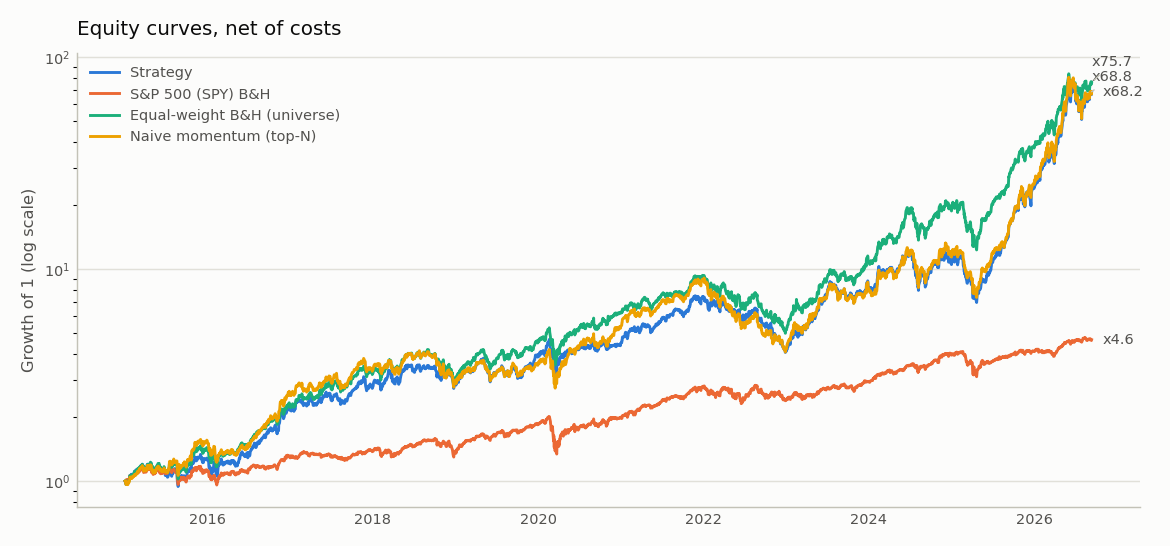
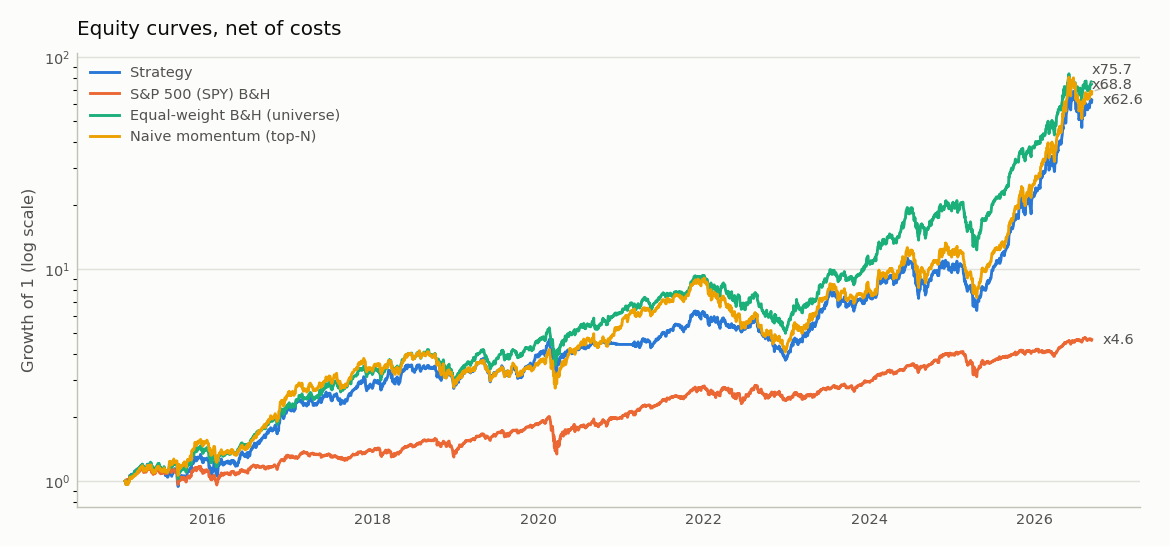
Step 5b: per-factor Schmitt trigger (engage / release thresholds)
macro_gate.{vix,yield,oil}_release_threshold (None = engage, neutral and golden). A sub-gate
engages above the engage threshold, releases only at or below the release threshold, and holds
its state in between; the state runs on the daily lagged macro features (pure function of
history; test), NaN fails open with a log line. Chosen: VIX 25/20, yield +40/+32 bp,
oil +20/+16% (release = 0.8 x engage).

Control, + Schmitt (x/yr):
  membership 3.61 -> 3.42 | drift 0.60 -> 0.59 | gate 0.00 | reweight 0.19 -> 0.20
  total 4.41 -> 4.21; risk-off on 165/611 signal dates (was 118), 211 entries blocked
  gate: 72 transitions (6.0/yr, unchanged), reversals within 1 signal date 24 -> 21, within 2
  31 -> 29
  CAGR 42.1% -> 41.0%, Sharpe 1.16 -> 1.15, max DD -46.0% -> -43.4%, costs 0.62% -> 0.61%

diff --git a/tests/test_schmitt.py b/tests/test_schmitt.py
@@ -1,0 +1,95 @@
+"""Per-factor Schmitt trigger (brief v2, decision 4b)."""
+
+from __future__ import annotations
+
+import numpy as np
+import pandas as pd
+import pytest
+
+from tests.golden import assert_golden
+from tests.synthetic import make_config
+from thematic_alpha.strategy.macro_gate import engaged_states, gate_factors, schmitt
+
+
+def _s(values):
+    return pd.Series(values, index=pd.bdate_range("2024-01-01", periods=len(values)), dtype=float)
+
+
+def test_engages_above_engage_and_holds_inside_the_band_both_ways():
+    # 25 / 20 band. 22 from below: stays released; 22 from above: stays engaged.
+    s = _s([18, 22, 24, 25, 26, 24, 22, 20.5, 20, 22, 19, 30, 25, 20])
+    got = schmitt(s, 25.0, 20.0).tolist()
+    assert got == [
+        False,
+        False,
+        False,
+        False,  # 25 is not above 25
+        True,  # 26 engages
+        True,  # 24 inside the band: hold
+        True,  # 22 inside the band: hold
+        True,  # 20.5 inside the band: hold
+        False,  # 20 is at the release level: release
+        False,  # 22 inside the band from below: hold (released)
+        False,
+        True,
+        True,  # 25 inside the band from above: hold
+        False,
+    ]
+
+
+def test_release_equal_to_engage_is_the_plain_comparator():
+    rng = np.random.default_rng(0)
+    s = _s(rng.normal(25, 5, 500))
+    assert schmitt(s, 25.0, 25.0).tolist() == (s > 25.0).tolist()
+
+
+def test_nan_fails_open_and_restarts_released(caplog):
+    s = _s([30, np.nan, 24, 26])
+    assert schmitt(s, 25.0, 20.0).tolist() == [True, False, False, True]  # 24 after NaN: released
+    cfg = make_config().macro_gate
+    idx = s.index
+    feats = pd.DataFrame(
+        {"vix_level": s, "dgs10_chg_21d": 0.0, "wti_chg_21d": [0.3, 0.18, np.nan, 0.18]}, index=idx
+    )
+    with caplog.at_level("WARNING"):
+        e = engaged_states(feats, cfg)
+    assert "failing open" in caplog.text
+    assert e["oil_engaged"].tolist() == [True, True, False, False]  # band 0.20/0.16 holds at 0.18
+
+
+def test_engaged_states_use_the_configured_release_thresholds():
+    cfg = make_config().macro_gate  # chosen: 25/20, 0.40/0.32, 0.20/0.16
+    assert (cfg.release_threshold("vix"), cfg.release_threshold("yield")) == (20.0, 0.32)
+    idx = pd.bdate_range("2024-01-01", periods=3)
+    feats = pd.DataFrame(
+        {"vix_level": [26.0, 21.0, 21.0], "dgs10_chg_21d": [0.5, 0.35, 0.3], "wti_chg_21d": 0.0},
+        index=idx,
+    )
+    f = gate_factors(feats, cfg)
+    assert f["vix_engaged"].tolist() == [True, True, True]
+    assert f["yield_engaged"].tolist() == [True, True, False]
+    assert f["exposure"].tolist() == pytest.approx([0.35, 0.35, 0.5])
+
+
+def test_release_above_engage_is_rejected():
+    with pytest.raises(ValueError):
+        make_config(macro_gate={"vix_release_threshold": 26.0})
+
+
+def test_state_at_t_is_unchanged_by_future_data():
+    rng = np.random.default_rng(3)
+    s = _s(rng.normal(23, 4, 400))
+    full = schmitt(s, 25.0, 20.0)
+    for cut in (100, 250, 399):
+        part = schmitt(s.iloc[: cut + 1], 25.0, 20.0)
+        pd.testing.assert_series_equal(part, full.iloc[: cut + 1])
+
+
+def test_release_equal_engage_is_golden():
+    assert_golden(
+        macro_gate={
+            "vix_release_threshold": 25.0,
+            "yield_release_threshold": 0.40,
+            "oil_release_threshold": 0.20,
+        }
+    )

diff --git a/src/thematic_alpha/strategy/macro_gate.py b/src/thematic_alpha/strategy/macro_gate.py
@@ -11,8 +11,12 @@ Three sub-gates (VIX level, 21-day 10y-yield change, 21-day WTI change) each pro
   not scaled, non-exempt names simply cannot increase (see ``compose``). The scale factors and
   ``min_exposure`` are unused in this mode.
 
-A NaN input fails open (released) for that sub-gate, with a log line. Everything here is a pure
-function of history on the daily feature index; ``applied_gate`` samples it on signal dates.
+Each sub-gate is a Schmitt trigger: it engages when its signal is *above* the engage threshold
+and releases only when the signal is *at or below* the release threshold; in between it keeps
+its previous state. With release == engage (the neutral default) there is no dead band and the
+trigger is exactly the Layer 1 comparator ``signal > threshold``. A NaN input fails open
+(released) for that sub-gate on that date, with a log line. Everything here is a pure function
+of history on the daily feature index; ``applied_gate`` samples it on signal dates.
 """
 
 from __future__ import annotations
@@ -20,6 +24,7 @@ from __future__ import annotations
 import logging
 from dataclasses import dataclass
 
+import numpy as np
 import pandas as pd
 
 from thematic_alpha.config import MacroGateConfig
@@ -29,11 +34,28 @@ logger = logging.getLogger("thematic_alpha.strategy.macro_gate")
 SUBGATES = ("vix", "yield", "oil")
 
 
-def _engaged(signal: pd.Series, threshold: float, name: str) -> pd.Series:
+def schmitt(signal: pd.Series, engage: float, release: float) -> pd.Series:
+    """Stateful comparator: True above ``engage``, False at or below ``release``, previous state
+    in between; NaN -> False (fail open). Runs forward in time only."""
+    x = signal.to_numpy(dtype=float)
+    out = np.zeros(len(x), dtype=bool)
+    state = False
+    for i, v in enumerate(x):
+        if np.isnan(v):
+            state = False
+        elif v > engage:
+            state = True
+        elif v <= release:
+            state = False
+        out[i] = state
+    return pd.Series(out, index=signal.index)
+
+
+def _engaged(signal: pd.Series, engage: float, release: float, name: str) -> pd.Series:
     n_nan = int(signal.isna().sum())
     if n_nan:
         logger.warning("%s gate: %d dates have no input; failing open (released).", name, n_nan)
-    return (signal > threshold).fillna(False).astype(bool).rename(f"{name}_engaged")
+    return schmitt(signal, engage, release).rename(f"{name}_engaged")
 
 
 def _inputs(macro_feats: pd.DataFrame, cfg: MacroGateConfig) -> dict[str, pd.Series]:
@@ -56,7 +78,12 @@ def engaged_states(macro_feats: pd.DataFrame, cfg: MacroGateConfig) -> pd.DataFr
         "yield": cfg.yield_change_threshold,
         "oil": cfg.oil_change_threshold,
     }
-    return pd.DataFrame({f"{k}_engaged": _engaged(x[k], thresholds[k], k) for k in SUBGATES})
+    return pd.DataFrame(
+        {
+            f"{k}_engaged": _engaged(x[k], thresholds[k], cfg.release_threshold(k), k)
+            for k in SUBGATES
+        }
+    )
 
 
 def gate_factors(macro_feats: pd.DataFrame, cfg: MacroGateConfig) -> pd.DataFrame:

diff --git a/src/thematic_alpha/config.py b/src/thematic_alpha/config.py
@@ -71,6 +71,39 @@ class MacroGateConfig(_Base):
     action: Literal["scale", "block_increases"] = "scale"
     # Universe ``segment`` values that trade freely while risk-off (e.g. ["defensive"]).
     block_exempt_segments: list[str] = Field(default_factory=list)
+    # (b) Schmitt trigger per sub-gate: engage when the signal is above the engage threshold,
+    # release only when it is at or below the release threshold, hold the state in between.
+    # None -> release = engage, which is exactly the Layer 1 comparator.
+    vix_release_threshold: float | None = None
+    yield_release_threshold: float | None = None
+    oil_release_threshold: float | None = None
+
+    @model_validator(mode="after")
+    def _release_not_above_engage(self) -> MacroGateConfig:
+        for name, engage, release in (
+            ("vix", self.vix_threshold, self.vix_release_threshold),
+            ("yield", self.yield_change_threshold, self.yield_release_threshold),
+            ("oil", self.oil_change_threshold, self.oil_release_threshold),
+        ):
+            if release is not None and release > engage:
+                raise ValueError(
+                    f"{name}_release_threshold={release} must not exceed the engage "
+                    f"threshold {engage}"
+                )
+        return self
+
+    def release_threshold(self, name: str) -> float:
+        engage = {
+            "vix": self.vix_threshold,
+            "yield": self.yield_change_threshold,
+            "oil": self.oil_change_threshold,
+        }[name]
+        release = {
+            "vix": self.vix_release_threshold,
+            "yield": self.yield_release_threshold,
+            "oil": self.oil_release_threshold,
+        }[name]
+        return engage if release is None else release
 
 
 class RankerConfig(_Base):

diff --git a/tests/synthetic.py b/tests/synthetic.py
@@ -293,6 +293,9 @@ LAYER1_NEUTRAL: dict[str, dict] = {
         "combination": "multiplicative",
         "action": "scale",
         "block_exempt_segments": [],
+        "vix_release_threshold": None,
+        "yield_release_threshold": None,
+        "oil_release_threshold": None,
     },
     "event_mask": {"enabled": True, "block_new_entries_only": True},
     "turnover": {"position_band": 0.0},
@@ -302,7 +305,13 @@ LAYER1_NEUTRAL: dict[str, dict] = {
 CHOSEN: dict[str, dict] = {
     "ranker": {"weighting": "equal", "exit_rank": 8},
     "turnover": {"position_band": 0.02},
-    "macro_gate": {"action": "block_increases", "block_exempt_segments": ["defensive"]},
+    "macro_gate": {
+        "action": "block_increases",
+        "block_exempt_segments": ["defensive"],
+        "vix_release_threshold": 20.0,
+        "yield_release_threshold": 0.32,
+        "oil_release_threshold": 0.16,
+    },
 }
 
 

diff --git a/src/thematic_alpha/reporting/report.py b/src/thematic_alpha/reporting/report.py
@@ -49,9 +49,17 @@ def git_hash(root: Path) -> str:
 
 def _gate_config_text(config: Config) -> str:
     g = config.macro_gate
+
+    def _band(engage: float, name: str, fmt) -> str:
+        release = g.release_threshold(name)
+        return fmt(engage) if release == engage else f"{fmt(engage)} (release {fmt(release)})"
+
     triggers = (
-        f"VIX>{g.vix_threshold:g}; 10y +{100 * g.yield_change_threshold:.0f}bp/"
-        f"{g.yield_change_window}d; WTI +{100 * g.oil_change_threshold:.0f}%/{g.oil_change_window}d"
+        f"VIX>{_band(g.vix_threshold, 'vix', lambda v: f'{v:g}')}; "
+        f"10y +{_band(g.yield_change_threshold, 'yield', lambda v: f'{100 * v:.0f}bp')}/"
+        f"{g.yield_change_window}d; "
+        f"WTI +{_band(g.oil_change_threshold, 'oil', lambda v: f'{100 * v:.0f}%')}/"
+        f"{g.oil_change_window}d"
     )
     if not g.enabled:
         return f"disabled ({triggers})"

diff --git a/outputs/report.md b/outputs/report.md
@@ -14,7 +14,7 @@
 | Execution | t + 1 session at the open |
 | Costs | model=bps, 5 bps/side + 3 bps slippage, flat 1 EUR |
 | Ranker | momentum_zscore, top 5 (exit rank 8), equal |
-| Macro gate | block increases while any sub-gate is engaged (VIX>25; 10y +40bp/21d; WTI +20%/21d); exempt segments: defensive; scale factors and floor unused |
+| Macro gate | block increases while any sub-gate is engaged (VIX>25 (release 20); 10y +40bp (release 32bp)/21d; WTI +20% (release 16%)/21d); exempt segments: defensive; scale factors and floor unused |
 | Event mask | block new exposure 3 sessions before earnings (on) |
 | Sizing | max weight 0.35, cash floor 0; house-money rule: Layer 2 (not applied) |
 | Turnover control | position no-trade band 2 pp (on; strategy only) |
@@ -27,7 +27,7 @@
 
 ## Strategy activity
 
-611 signal dates. Macro gate in **block-increases** mode: risk-off on 118 signal dates, 88 increases or entries blocked (that weight stayed in cash; exempt names: none). The scale factors and `min_exposure` are unused in this mode. Event mask: **8 entries blocked pre-earnings** (323 ticker-dates masked; 0 tickers without earnings dates failed open).
+611 signal dates. Macro gate in **block-increases** mode: risk-off on 165 signal dates, 211 increases or entries blocked (that weight stayed in cash; exempt names: none). The scale factors and `min_exposure` are unused in this mode. Event mask: **8 entries blocked pre-earnings** (323 ticker-dates masked; 0 tickers without earnings dates failed open).
 
 Average cross-sectional rank of the held names: **3.81** (exit rank 8, top 5; plain top-5 gives 3.0 by construction). A higher value is the signal-quality cost of the rank buffer: it holds names the ranker would otherwise have replaced.
 
@@ -37,35 +37,35 @@ Average cross-sectional rank of the held names: **3.81** (exit rank 8, top 5; pl
 
 | Metric | Strategy | S&P 500 (SPY) B&H | Equal-weight B&H (universe) | Naive momentum (top-N) |
 |---|---:|---:|---:|---:|
-| Total return | 6724.3% | 364.5% | 7474.4% | 6780.2% |
-| CAGR | 42.1% | 13.6% | 43.3% | 42.2% |
-| Annualized volatility | 33.3% | 18.4% | 31.2% | 34.0% |
-| Sharpe (excess over DTB3) | 1.16 | 0.67 | 1.24 | 1.14 |
-| Sortino (MAR 0) | 1.71 | 0.95 | 1.82 | 1.67 |
-| Max drawdown | -46.0% | -33.5% | -46.7% | -55.2% |
-| Max DD peak | 2021-11-25 | 2020-02-19 | 2021-12-27 | 2022-01-03 |
-| Max DD trough | 2022-12-28 | 2020-03-23 | 2022-12-28 | 2022-12-28 |
-| Max DD recovery | 2023-06-22 | 2021-01-07 | 2023-07-05 | 2024-02-09 |
-| Max DD duration (days) | 574 | 323 | 555 | 767 |
-| Calmar | 0.92 | 0.41 | 0.93 | 0.76 |
-| Alpha vs S&P 500 (ann.) | 22.9% | -0.1% | 22.6% | 23.0% |
-| Beta vs S&P 500 | 1.26 | 1.00 | 1.30 | 1.28 |
+| Total return | 6156.9% | 364.5% | 7474.4% | 6780.2% |
+| CAGR | 41.0% | 13.6% | 43.3% | 42.2% |
+| Annualized volatility | 32.8% | 18.4% | 31.2% | 34.0% |
+| Sharpe (excess over DTB3) | 1.15 | 0.67 | 1.24 | 1.14 |
+| Sortino (MAR 0) | 1.70 | 0.95 | 1.82 | 1.67 |
+| Max drawdown | -43.4% | -33.5% | -46.7% | -55.2% |
+| Max DD peak | 2024-06-18 | 2020-02-19 | 2021-12-27 | 2022-01-03 |
+| Max DD trough | 2025-04-21 | 2020-03-23 | 2022-12-28 | 2022-12-28 |
+| Max DD recovery | 2025-08-07 | 2021-01-07 | 2023-07-05 | 2024-02-09 |
+| Max DD duration (days) | 415 | 323 | 555 | 767 |
+| Calmar | 0.95 | 0.41 | 0.93 | 0.76 |
+| Alpha vs S&P 500 (ann.) | 22.6% | -0.1% | 22.6% | 23.0% |
+| Beta vs S&P 500 | 1.22 | 1.00 | 1.30 | 1.28 |
 | Historical VaR 95% (daily) | 3.2% | 1.7% | 3.2% | 3.3% |
-| Historical VaR 99% (daily) | 5.6% | 3.3% | 5.3% | 5.8% |
-| Parametric VaR 95% (daily) | 3.3% | 1.8% | 3.1% | 3.4% |
-| Parametric VaR 99% (daily) | 4.7% | 2.6% | 4.4% | 4.8% |
-| CVaR / ES 95% (daily) | 4.9% | 2.8% | 4.6% | 5.0% |
-| Excess kurtosis (daily) | 4.00 | 11.29 | 3.70 | 3.42 |
-| Hit rate (weekly periods) | 59.8% | 60.3% | 61.7% | 60.4% |
+| Historical VaR 99% (daily) | 5.5% | 3.3% | 5.3% | 5.8% |
+| Parametric VaR 95% (daily) | 3.2% | 1.8% | 3.1% | 3.4% |
+| Parametric VaR 99% (daily) | 4.6% | 2.6% | 4.4% | 4.8% |
+| CVaR / ES 95% (daily) | 4.8% | 2.8% | 4.6% | 5.0% |
+| Excess kurtosis (daily) | 4.36 | 11.29 | 3.70 | 3.42 |
+| Hit rate (weekly periods) | 58.5% | 60.3% | 61.7% | 60.4% |
 | Average win (weekly period) | 3.7% | 1.7% | 3.5% | 3.8% |
 | Average loss (weekly period) | -3.4% | -1.8% | -3.5% | -3.7% |
-| Annualized turnover | 4.41 | 0.08 | 0.62 | 15.39 |
-| Total costs paid | 4,257.45 | 7.99 | 1,229.48 | 13,034.81 |
-| Costs as % of final equity | 0.62% | 0.02% | 0.16% | 1.89% |
+| Annualized turnover | 4.21 | 0.08 | 0.62 | 15.39 |
+| Total costs paid | 3,842.77 | 7.99 | 1,229.48 | 13,034.81 |
+| Costs as % of final equity | 0.61% | 0.02% | 0.16% | 1.89% |
 
-Against equal-weight buy-and-hold of the same basket the strategy's CAGR is lower (42.1% vs 43.3%), its Sharpe is lower (1.16 vs 1.24), and its maximum drawdown is shallower (-46.0% vs -46.7%). The rules gave up total return relative to holding the basket in exchange for a better risk-adjusted profile.
+Against equal-weight buy-and-hold of the same basket the strategy's CAGR is lower (41.0% vs 43.3%), its Sharpe is lower (1.15 vs 1.24), and its maximum drawdown is shallower (-43.4% vs -46.7%). The rules gave up total return relative to holding the basket in exchange for a better risk-adjusted profile.
 
-VaR note: parametric (normal) 99% VaR is 4.7% against a historical 5.6%; daily excess kurtosis is 4.00. The normal assumption understates the tail.
+VaR note: parametric (normal) 99% VaR is 4.6% against a historical 5.5%; daily excess kurtosis is 4.36. The normal assumption understates the tail.
 
 ## Turnover attribution
 
@@ -73,12 +73,12 @@ Annualized turnover split by cause (see `backtest/attribution.py`): **membership
 
 | Run | membership | drift | gate | reweight | total |
 |---|---:|---:|---:|---:|---:|
-| Strategy | 3.61 | 0.60 | 0.00 | 0.19 | 4.41 |
+| Strategy | 3.42 | 0.59 | 0.00 | 0.20 | 4.21 |
 | S&P 500 (SPY) B&H | 0.08 | 0.00 | 0.00 | 0.00 | 0.08 |
 | Equal-weight B&H (universe) | 0.27 | 0.21 | 0.00 | 0.14 | 0.62 |
 | Naive momentum (top-N) | 13.96 | 1.43 | 0.00 | 0.00 | 15.39 |
 
-Macro gate: 72 state transitions over 611 signal dates (6.0 per year); 24 of them reverse within 1 signal date and 31 within 2. The gate accounts for 0.0% of the strategy's turnover. In block mode a blocked *entry* that executes after the release is membership turnover, not gate turnover, so this share only counts blocked increases of held names; with equal weights and a full book those are rare, and the gate's effect shows up as deferred membership and higher cash instead.
+Macro gate: 72 state transitions over 611 signal dates (6.0 per year); 21 of them reverse within 1 signal date and 29 within 2. The gate accounts for 0.0% of the strategy's turnover. In block mode a blocked *entry* that executes after the release is membership turnover, not gate turnover, so this share only counts blocked increases of held names; with equal weights and a full book those are rare, and the gate's effect shows up as deferred membership and higher cash instead.
 
 ![turnover by cause](figures/turnover_by_cause.png)
 
@@ -86,10 +86,10 @@ Macro gate: 72 state transitions over 611 signal dates (6.0 per year); 24 of the
 
 |  | In EUR | In local currencies |
 |---|---:|---:|
-| Total return | 6724.3% | 6388.8% |
-| CAGR | 42.1% | 41.5% |
+| Total return | 6156.9% | 5826.9% |
+| CAGR | 41.0% | 40.4% |
 
-FX contribution: 0.6% per year of CAGR; in total the EUR result differs from the local-currency result by 335.4% of initial capital. Positions are unhedged USD and KRW exposure held by a EUR investor.
+FX contribution: 0.6% per year of CAGR; in total the EUR result differs from the local-currency result by 330.0% of initial capital. Positions are unhedged USD and KRW exposure held by a EUR investor.
 
 ## Largest drawdowns
 
@@ -97,9 +97,9 @@ FX contribution: 0.6% per year of CAGR; in total the EUR result differs from the
 
 | Depth | Peak | Trough | Recovery | Duration (days) |
 |---|---:|---:|---:|---:|
-| -46.0% | 2021-11-25 | 2022-12-28 | 2023-06-22 | 574 |
 | -43.4% | 2024-06-18 | 2025-04-21 | 2025-08-07 | 415 |
-| -33.8% | 2020-02-19 | 2020-03-16 | 2020-09-02 | 196 |
+| -41.5% | 2021-11-25 | 2022-12-28 | 2023-05-30 | 551 |
+| -33.8% | 2020-02-19 | 2020-03-16 | 2021-04-07 | 413 |
 | -32.7% | 2026-06-02 | 2026-07-29 | not recovered | 101 |
 | -22.6% | 2018-07-25 | 2018-12-24 | 2019-04-03 | 252 |
 
